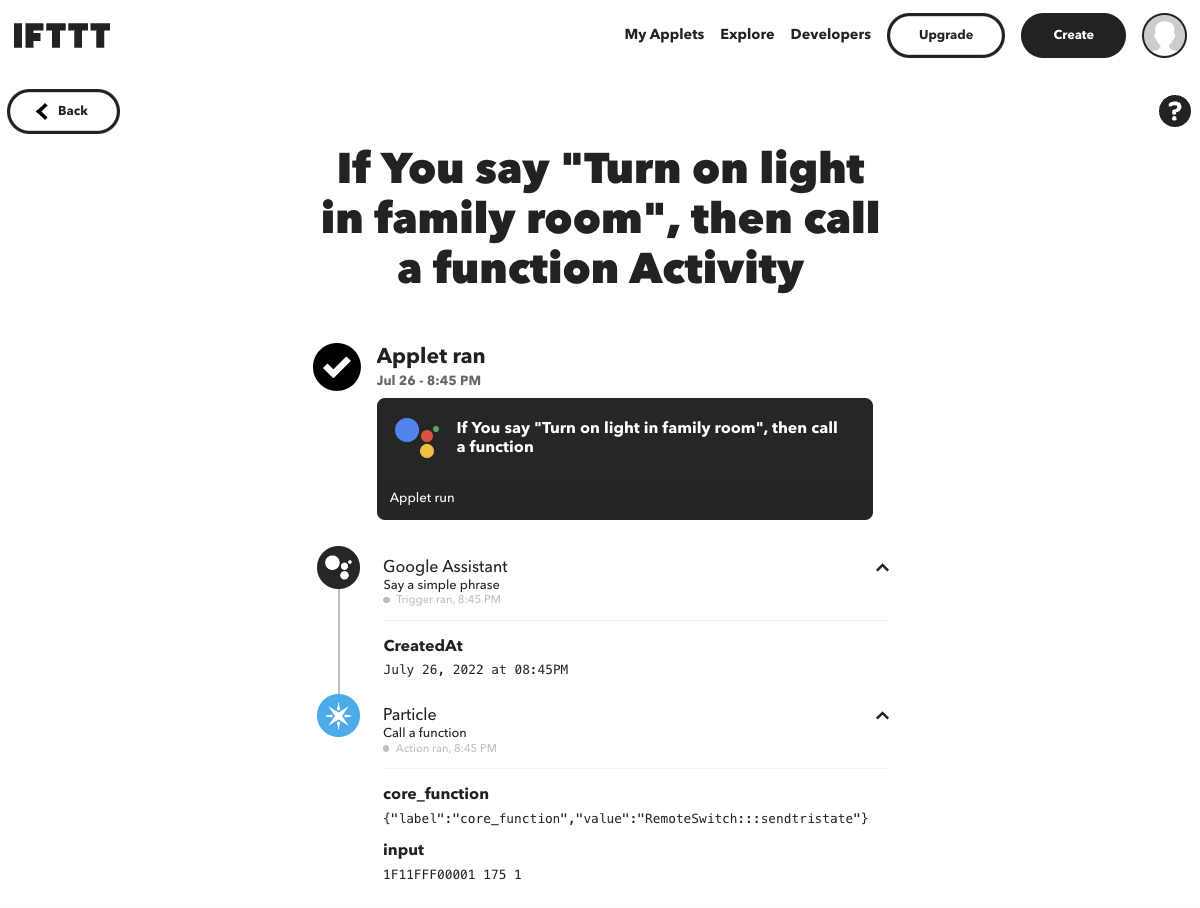
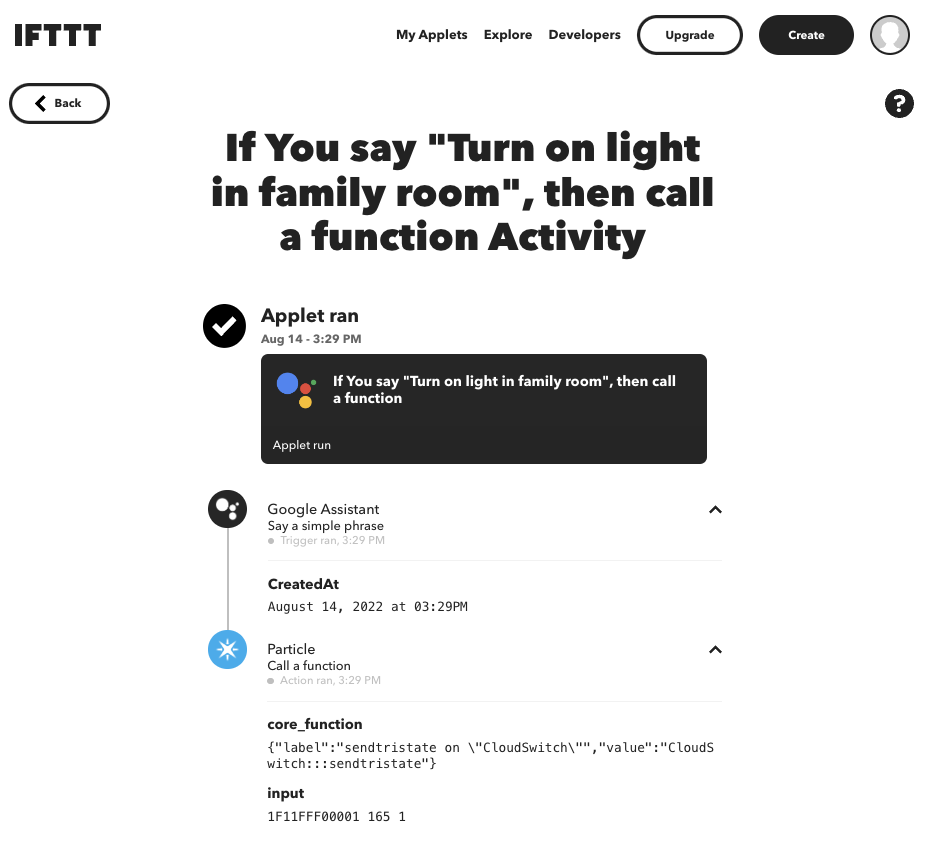
Update README

diff --git a/photon/README.md b/photon/README.md
@@ -1,0 +1,89 @@
+# Cloud Switch Photon Setup
+
+## HW Setup
+
+You can use Particle [Photon](https://store.particle.io/collections/wifi/products/photon)
+or [Argon](https://store.particle.io/collections/wifi/products/argon).
+Both 433MHz and 315MHz RF remoted control switches can be supported. 
+The RF transmitter and receiver can be purchased from 
+[ebay](https://www.ebay.com/sch/i.html?_from=R40&_trksid=p2334524.m570.l1313&_nkw=315+433+mhz+rf+transmitter+and+receiver+with+antenna&_sacat=0&LH_TitleDesc=0&_odkw=433+mhz+rf+transmitter+and+receiver+with+antenna&_osacat=0&LH_PrefLoc=2).
+
+- 3.3v conntect to VCC/BAT/+ of transmitter and receiver
+- GND connect to GND/- of transmitter and receiver
+- D0 connect to the Data Pin of transmitter
+- D3 connect to the Data Pin of receiver
+
+Push Button is optional.
+
+- D2 connect to pin on one end of the  button.
+- GND connect to pin on the other end of the button.
+
+Refer to the pictures below:
+
+## Photon Setup
+
+Follow the instructions at [Connect Your Photon](https://docs.particle.io/quickstart/photon/#connect-your-photon)
+to setup the devices. You need to sign up for a partile.io account and claim the device and set a name to the device.
+The name will be used in the [Configure for Device](#build-and-flash) step below.
+
+## Install IDE
+
+Follow the instructions at [Quick start: Workbench](https://docs.particle.io/quickstart/workbench/)
+to install the IDE (VS Code + Particle Workbench).
+
+## Build and flash
+
+- Open the projects.
+- Open Particle Workbench and click "Login" to login to Particle account.
+- Click "Configure for Device" under Development Workflow -> TARGET
+- Choose deviceOS@3.3.0 -> photon then input the name of the device
+- Click "Local compile" to compile the code. 
+  (Cloud compilation will fail due to error in the RCSwitch library which is fixed locally.)
+- Connect the photon over USB, click "Local flash". The LED on Photon will blinking then breath.
+
+## Try it
+
+- Press any button on the Remote Control, the blue LED will light up for a second. 
+  This indicates a RF code is received and the FW is working correctly. 
+- Go to [Particle devices console](https://console.particle.io/devices), click on the Photon device and go to the device page. (See screenshot below.)
+- Press a button on the Remote Control, the Photon RF receiver wlll decode the RF signal into tristate code and publish it to the device console.
+- Find the tristate-received event and copy the data string. E.g. `1F11FFF10000 162 1`
+- Paste the tristate code string to the input box for function *f* `sendtristate`, then click the "CALL" button
+- When Photon received the function call with the tristate code, it will replay the RF signal using the RF transmitter.
+- The Switch will toggle when receive the signal.
+
+Now you can run the [Cloud Swtich iOS app](../ios) to setup and control the Cloud Swtiches using your phone.
+
+## Button Control
+
+The big black button on the breadboard can be used to control the remote switch. 
+Current the tristate codes is hard coded in the source code as below. Single click the button toggle the first switch,
+double click toggle the second switch, triple click toggle the third switch, etc.
+If the n click then hold, it will toggle the first n switches.
+E.g. click, click, hold will toggle the first 3 switches
+```
+static const char* kSwitchCodes[] {
+  "1F11FFF00001 165 1",
+  "1F11FFF00010 165 1",
+  "1F11FFF00100 165 1",
+  "1F11FFF01000 165 1",
+  "1F11FFF10000 165 1",
+};
+```
+![Particle Device Console](../docs/Particle_Console.png)
+
+
+## Dependency:
+
+- [RCSwitch](https://github.com/suda/rcswitch)
+- [clickButton](https://github.com/pkourany/clickButton)
+
+
+## HW pictures
+
+![Circuit Top](../docs/Circuit_Top.png)
+
+![Circuit Front](../docs/Circuit_Front.png)
+
+![Circuit Back](../docs/Circuit_Back.png)
+

diff --git a/README.md b/README.md
@@ -1,18 +1,24 @@
-# Google Assistant controlled Remote Switch
+# Cloud Switch
 
-## Remote Control for RF 433MHz RC Outlet Switch using [Particle Photon](https://docs.particle.io/photon/)
+Cloud Swtich turns a RF 433MHz/315MHz Remote Control Outlet Switch into a iot Could Swtich that can be
+controlled over internet.
 
-The code could support most of the RF 433MHz RC Switch. To setup the switch:
+![Cloud Switch Diagram](docs/Cloud_Switch.png)
 
-* Build and flash the code to Photon
-* Go to [Particle devices console](https://console.particle.io/devices), click on the Photon device and go to the device page. (See screenshot below.)
-* Press a button on the Remote Control, the Photon RF receiver wlll decode the RF signal into tristate code and publish it to the device console.
-* Find the tristate-received event and copy the data string. E.g. `1F11FFF10000 162 1`
-* Paste the tristate code string to the input box for function *f* `sendtristate`, then click the "CALL" button
-* When Photon received the function call with the tristate code, it will replay the RF signal using the RF transmitter.
-* The Switch will toggle when receive the signal.
+## How does it work
 
-![Particle Device Console](docs/Particle_Console.png)
+1. When user press a button on the Remote Control, the Remote Control will send a radio signal
+at the frequency about 433MHz. The signal is used to toggle the switch.
+2. The RF receiver module decodes the radio signal and output tristate (H/L/Float) signal on the data pin.
+3. Photon reads the output of data pin and convert it into tristate code then publish it to partical cloud.
+4. The app on the cell phone subscribes to the tristate code then assigns it to a button.
+5. Later when user press the button in the app, the app will call a cloud function with the tristate code.
+6. Phonon handle the cloud function and send the tristate signal to the data pin of the RF transmitter.
+7. RF transmitter conver the tristate back to the radio signal and toggle the switch.
+
+## Build instructions:
+- Follow the README in [photon](./photon/) folder to setup the Photon device and build and flash the firmware.
+- Follow the README in [iOS](./iOS/) folder to build the iOS app.
 
 ## Integrate with Google Assistant using [IFTTT](https://ifttt.com/)
 
@@ -24,36 +30,3 @@ The code could support most of the RF 433MHz RC Switch. To setup the switch:
 
 ![IFTTT Applet](docs/IFTTT_Google_Assistant_Integration.png)
 
-## Button Control
-
-The big black button on the breadboard can be used to control the remote switch. 
-The tristate codes is hard coded in the source code as below. Single click the button toggle the first switch,
-double click toggle the second switch, triple click toggle the third switch, etc.
-If the n click then hold, it will toggle the first n switches.
-E.g. click, click, hold will toggle the first 3 switches
-```
-static const char* kSwitchCodes[] {
-  "1F11FFF00001 165 1",
-  "1F11FFF00010 165 1",
-  "1F11FFF00100 165 1",
-  "1F11FFF01000 165 1",
-  "1F11FFF10000 165 1",
-};
-```
-
-## HW setup
-
-* D0 connect to the RF433 transmitter Data Pin
-* D2 connect to one pin of the push button, the other pin of the push button connect to GND
-* D3 connect to the RF433 receiver Data Pin
-
-
-![Circuit Top](docs/Circuit_Top.png)
-
-![Circuit Front](docs/Circuit_Front.png)
-
-![Circuit Back](docs/Circuit_Back.png)
-
-## RC Switch
-
-[![RF RC Switch](docs/RC_Switch.jpg)](https://www.amazon.com/dp/B0065PASNI/ref=pe_309540_26725410_item)

diff --git a/iOS/README.md b/iOS/README.md
@@ -27,4 +27,11 @@ Make sure the particle device with [Cloud Switch](../photon) is setup and connec
 7. To change the name or code for a button, long press the button again.
 8. To switch to a different Cloud Switch device, tap the Cloud Switch status label.
 
+## Dependency:
+
+* [Particle-SDK](https://github.com/particle-iot/particle-cloud-sdk-ios)
+* [AFNetworking](https://github.com/AFNetworking/AFNetworking)
+
+## Screenshots
+
 ![Cloud Switch](../docs/Cloud_Switch_iOS.png) ![Learn Switch Code](../docs/Cloud_Switch_Learn_Code.png) 
